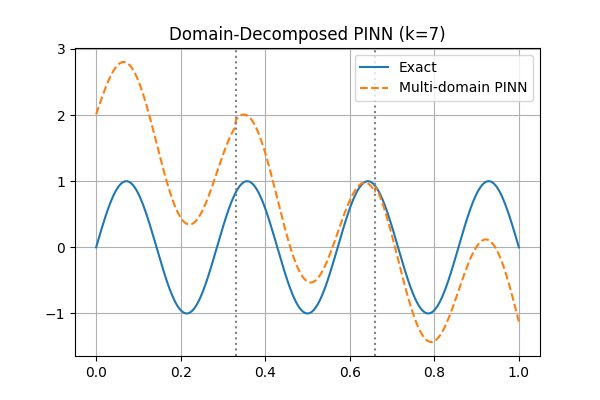
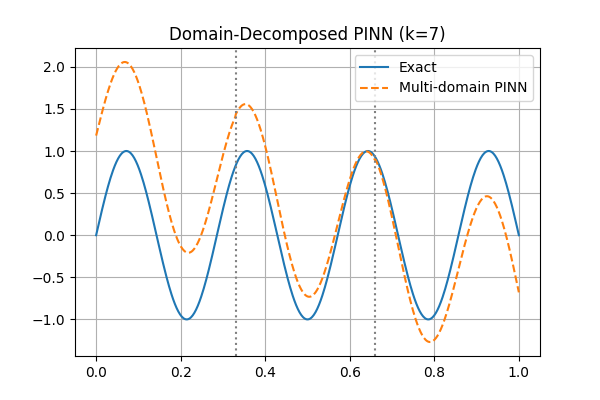
added surrogate

diff --git a/PINNs/tutorial/HarmonicOscillator-PINNsExample.py b/PINNs/tutorial/HarmonicOscillator-PINNsExample.py
@@ -1,0 +1,167 @@
+# We want to solve the problem for a damped oscillator ODE
+# m y''(t) + \mu y'(t) + ky = 0
+# y(0) = 1, y'(0) = 0
+
+from PIL import Image
+
+import torch
+from torch import nn
+import numpy as np
+import matplotlib.pyplot as plt
+
+device = torch.device("cuda" if torch.cuda.is_available() else "cpu")
+print("Using device:", device)
+
+#Multi Layer Perceptron
+class MLP(nn.Module):
+
+    def __init__(self, arch):
+        super(MLP, self).__init__()
+
+        #Interpret arch(itecture) input. 
+        if isinstance(arch, tuple):
+            # Case 1: (num_layers, width)
+            num_layers, width = arch
+            assert num_layers >= 2, "Need at least input and output layer"
+            
+            # Example: (4, 32) → [1, 32, 32, 32, 1]
+            layers = [1] + [width]*(num_layers-2) + [1]
+
+        elif isinstance(arch, list):
+            # Case 2: explicit list
+            layers = arch
+            assert len(layers) >= 2, "Need at least input and output size"
+
+        else:
+            raise ValueError("arch must be either tuple (a,b) or list [a1,...,an]")
+
+        # Build network
+        self.activation = nn.Tanh()
+
+        self.linears = nn.ModuleList([
+            nn.Linear(layers[i], layers[i+1])
+            for i in range(len(layers)-1)
+        ])
+
+    def forward(self, t):
+        for i in range(len(self.linears)-1):
+            t = self.activation(self.linears[i](t))
+        t = self.linears[-1](t)
+        return t
+
+
+def residual(model, t, params): # t: #collocation pts x 1. The last dim must match the 
+
+    m, mu, k = params
+
+    y = model(t)
+
+    # print(t.shape)
+
+    dydt = torch.autograd.grad(y, t, grad_outputs=torch.ones_like(y), create_graph=True)[0]
+    # We could create a list of derivatives, dydt, dydx. the [0] says we are only picking the 1st entry in the list.
+    # dydx1, dydx2, dydx3 = torch.autograd.grad(y, (x1,x2,x3), grad_outputs=torch.ones_like(y), create_graph=True)
+    # create_graph : help wiht backpropagation. It tells me the sequence of turns i took to get to a point. 
+    # Important for taking higher order derivatives.
+    # grad_outputs: we have N collocation t = [t1,t2,..., tN] and y = [y1, y2, ..., yN].
+    # Thus dy/dt is a jacobian matrix. BUT since y is a vector, PyTorch computes: grad_outputs^T⋅ ∂y/∂t 
+	# since grad_outputs=torch.ones_like(y) = [1, 1, ..., 1] N times. Thus grad_outputs^T⋅ ∂y/∂t = [y'(t1), y'(t2), ..., y'(tN)]
+
+    d2ydt2 = torch.autograd.grad(dydt, t, grad_outputs=torch.ones_like(y), create_graph=True)[0]
+
+    return m * d2ydt2 + mu * dydt + k * y
+
+def boundary(model, tbc): # size nbc x 1
+    ybc = model(tbc)
+
+    dydt = torch.autograd.grad(ybc, tbc, grad_outputs=torch.ones_like(ybc), create_graph=True)[0]
+
+    return ybc - 1, dydt # y(0) - 1 ->0, y'(0) -> 0.
+
+def datapoints():
+    
+    tbc = torch.zeros(1, 1, device = device, requires_grad = True)
+    tcol = torch.linspace(0, T, 50, device = device).reshape(50, 1)
+    tcol.requires_grad_(True)
+
+    return tbc, tcol
+
+def train(tbc, tcol, params, model, optimizer):
+
+    #set training mode
+    model.train()
+
+    # zero out gradients
+    optimizer.zero_grad()
+
+    # BC loss
+    bc1, bc2 = boundary(model, tbc)
+    lossbc = torch.mean(bc1**2) + torch.mean(bc2**2)
+
+    # physics loss
+    lossphy = torch.mean(residual(model, tcol, params)**2)
+
+    # total loss
+    lambda1 = 1e-1
+    loss = lossphy + lambda1 * lossbc
+
+    #back prop 
+    loss.backward()
+
+    #update parameters
+    optimizer.step()
+
+    return loss.item()
+
+def exact(t, params):
+    m, mu, k = params
+    
+    delta = mu/(2*m)
+    omega0 = torch.sqrt(torch.tensor(k/m, device=t.device))
+
+    omega = torch.sqrt(omega0**2 - delta**2)
+    phi = torch.arctan(-delta/omega)
+    A = 1/(2*torch.cos(phi))
+    y = torch.exp(-delta*t)*2*A*torch.cos(omega*t + phi)
+    return y
+
+if __name__ == "__main__":
+    m, mu, k = 1, 4, 50
+    params = (m, mu, k)
+    T = 5
+
+    arch = (4, 32)
+    model = MLP(arch).to(device)
+    optimizer = torch.optim.Adam(model.parameters(), lr = 1e-4, )
+
+    #generate eval points. 
+    tbc, tcol = datapoints()
+
+    epochs = 10000
+    train_losses = np.zeros(epochs)
+
+    for t in range(epochs):
+        train_losses[t] = train(tbc, tcol, params, model, optimizer)
+
+        if t % 100 == 0:
+            print(train_losses[t])
+    
+    import matplotlib.pyplot as plt
+    plt.figure()
+    plt.plot(range(epochs), train_losses)
+    plt.xlabel("Epochs")
+    plt.ylabel("Training Loss")
+
+    t_test = torch.linspace(0, T, 200).reshape(-1,1).to(device)
+    y_hat = model(t_test).detach().cpu()
+    y_exact = exact(t_test, params)
+
+    plt.figure()
+    plt.plot(t_test.cpu(), y_hat.cpu(), "--")
+    plt.plot(t_test.cpu(), y_exact.cpu())
+    plt.xlabel("Time")
+    plt.ylabel("Displacement")
+    plt.legend(["PINN Prediction", "Exact Soln"])
+
+    plt.show()
+

diff --git a/PINNs/tutorial/surrogate.py b/PINNs/tutorial/surrogate.py
@@ -1,0 +1,144 @@
+import torch
+import torch.nn as nn
+import torch.optim as optim
+import numpy as np
+import matplotlib.pyplot as plt
+
+device = torch.device("cuda" if torch.cuda.is_available() else "cpu")
+
+# =========================================================
+# 1. True solution
+# =========================================================
+def true_solution(x, D):
+    return np.sin(np.pi * x) / D
+
+# =========================================================
+# 2. Generate training data
+# =========================================================
+N = 5000
+
+D_data = np.random.uniform(0.5, 2.0, (N, 1))
+x_data = np.random.uniform(0.0, 1.0, (N, 1))
+
+u_data = true_solution(x_data, D_data)
+
+X = np.hstack([D_data, x_data])
+
+X = torch.tensor(X, dtype=torch.float32).to(device)
+y = torch.tensor(u_data, dtype=torch.float32).to(device)
+
+# =========================================================
+# 3. Define surrogate model (MLP)
+# =========================================================
+class Surrogate(nn.Module):
+    def __init__(self):
+        super().__init__()
+        self.net = nn.Sequential(
+            nn.Linear(2, 64),
+            nn.Tanh(),
+            nn.Linear(64, 64),
+            nn.Tanh(),
+            nn.Linear(64, 1)
+        )
+
+    def forward(self, D, x):
+        inp = torch.cat([D, x], dim=1)
+        return self.net(inp)
+
+model = Surrogate().to(device)
+
+# =========================================================
+# 4. Train surrogate
+# =========================================================
+optimizer = optim.Adam(model.parameters(), lr=1e-3)
+loss_fn = nn.MSELoss()
+
+epochs = 2000
+
+for epoch in range(epochs):
+    optimizer.zero_grad()
+
+    D_batch = X[:, 0:1]
+    x_batch = X[:, 1:2]
+
+    pred = model(D_batch, x_batch)
+
+    loss = loss_fn(pred, y)
+
+    loss.backward()
+    optimizer.step()
+
+    if epoch % 200 == 0:
+        print(f"Epoch {epoch}, Loss: {loss.item():.6e}")
+
+# =========================================================
+# 5. Validate surrogate
+# =========================================================
+x_test = np.linspace(0, 1, 200)
+D_test = np.ones_like(x_test) * 1.0
+
+x_test_t = torch.tensor(x_test[:, None], dtype=torch.float32).to(device)
+D_test_t = torch.tensor(D_test[:, None], dtype=torch.float32).to(device)
+
+with torch.no_grad():
+    u_pred = model(D_test_t, x_test_t).cpu().numpy()
+
+u_true = true_solution(x_test, D_test)
+
+plt.figure()
+plt.plot(x_test, u_true, label="True")
+plt.plot(x_test, u_pred, "--", label="Surrogate")
+plt.legend()
+plt.title("Surrogate vs True")
+plt.show()
+
+# =========================================================
+# 6. Optimization over D
+# =========================================================
+
+# Discretize domain for inner max
+x_grid = torch.linspace(0, 1, 200).reshape(-1, 1).to(device)
+
+# Initialize D as trainable parameter
+D_opt = torch.tensor([[1.0]], dtype=torch.float32, requires_grad=True, device=device)
+
+optimizer_D = optim.Adam([D_opt], lr=0.05)
+
+history = []
+
+for step in range(200):
+    optimizer_D.zero_grad()
+
+    D_expand = D_opt.expand_as(x_grid)
+
+    u_vals = model(D_expand, x_grid)
+
+    # max over x
+    max_u = torch.max(u_vals)
+
+    loss = max_u
+    loss.backward()
+
+    optimizer_D.step()
+
+    # enforce bounds
+    with torch.no_grad():
+        D_opt.clamp_(0.5, 2.0)
+
+    history.append(D_opt.item())
+
+    if step % 20 == 0:
+        print(f"Step {step}: D = {D_opt.item():.4f}, max u = {max_u.item():.4f}")
+
+# =========================================================
+# 7. Plot convergence
+# =========================================================
+plt.figure()
+plt.plot(history)
+plt.xlabel("Iteration")
+plt.ylabel("D")
+plt.title("Optimization Convergence")
+plt.show()
+
+print("\nFinal optimized D:", D_opt.item())
+print("True optimal D: 2.0")
